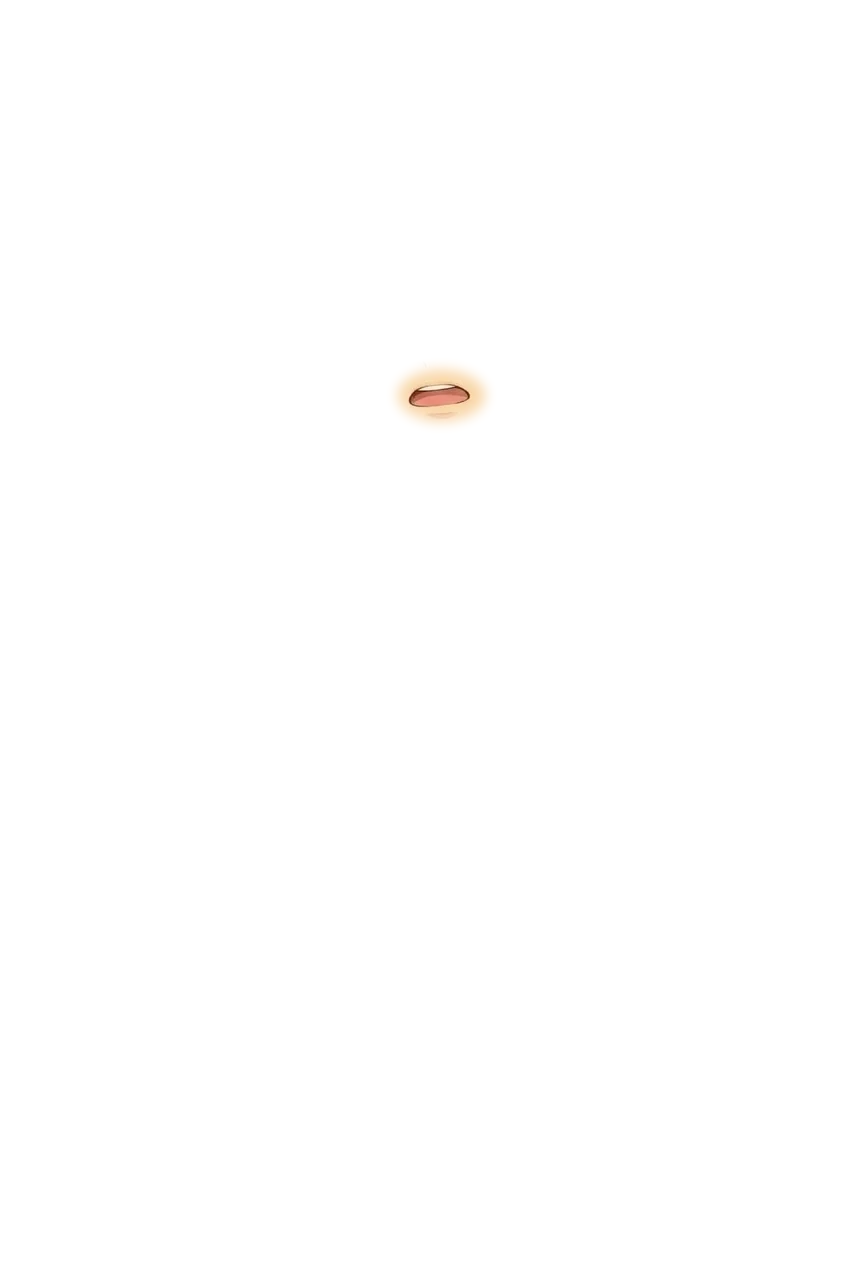
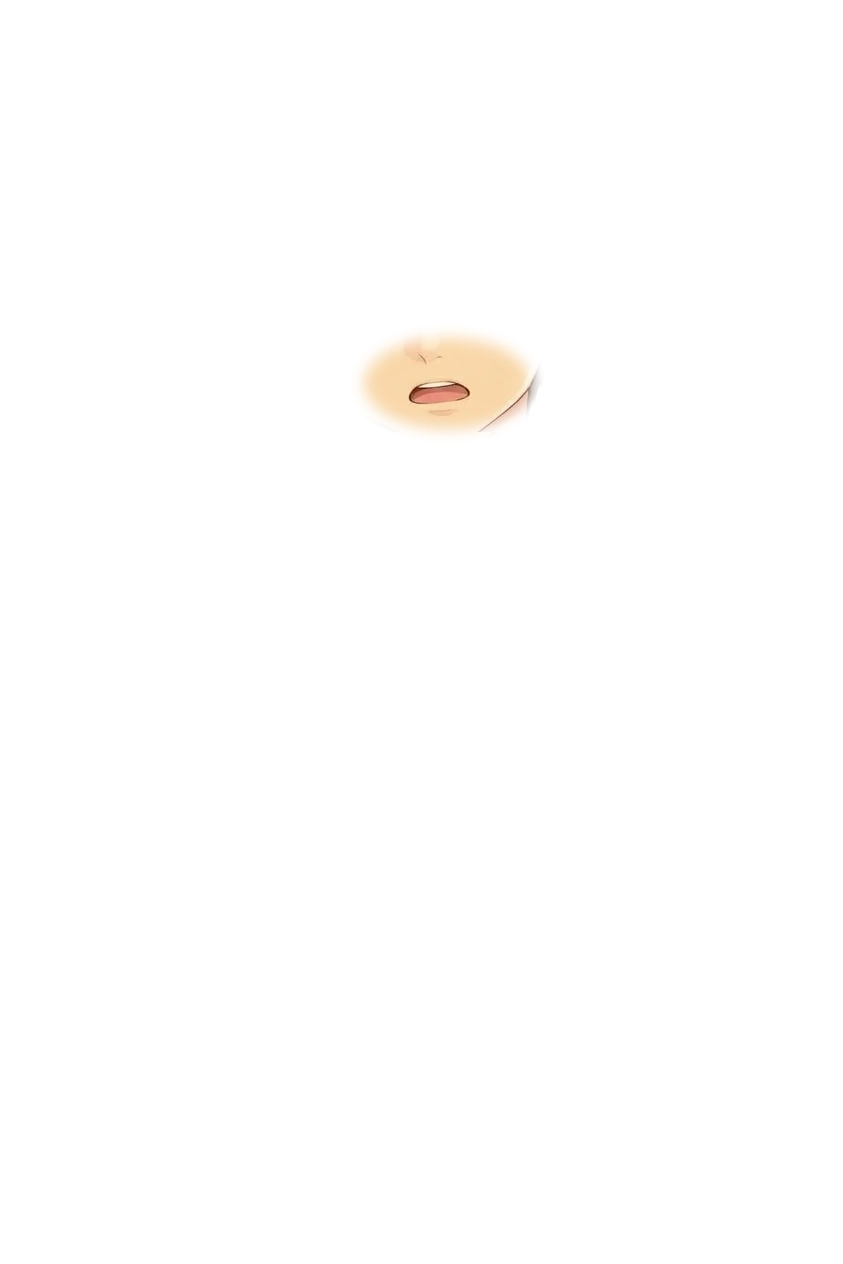
りくの口パクで、元の口の線が残って口がずれて見えるのを直す
切り抜く楕円が小さく、にやり・得意げ・通常・あせりの閉じた口の線（特に右の口角）が口パクの外に残っていた。範囲を広げて元の口を覆うようにした

Claude-Session: https://claude.ai/code/session_01Dz6Em6RUo1D1ik17oXNSpf

Changed region(s): [[0.4318, 0.2468, 0.6477, 0.3394]]

diff --git a/scripts/portrait_parts.py b/scripts/portrait_parts.py
@@ -25,7 +25,7 @@ PARTS = {
     # ハルトの開いた口：「驚き」の口
     "hero_talk": ("hero_surprised", (400, 398, 466, 446), 6, 1.0),
     # りくの開いた口：「驚き」の口（大きく開いているので、縦を縮めて話す口の大きさにする）
-    "riku_talk": ("riku_surprised", (398, 370, 484, 420), 6, 0.75),
+    "riku_talk": ("riku_surprised", (364, 338, 530, 428), 7, 0.75),
     # ハルトの閉じた目：Gemini で「通常」から目だけ閉じた絵（hero_blink_src）。眉の下から頬の上まで
     "hero_blink": ("hero_blink_src", (290, 290, 580, 362), 5, 1.0),
     # りくの閉じた目：Gemini で「通常」から目を閉じた絵（riku_blink_src。笑った目になった）。眉の下から頬の上まで
